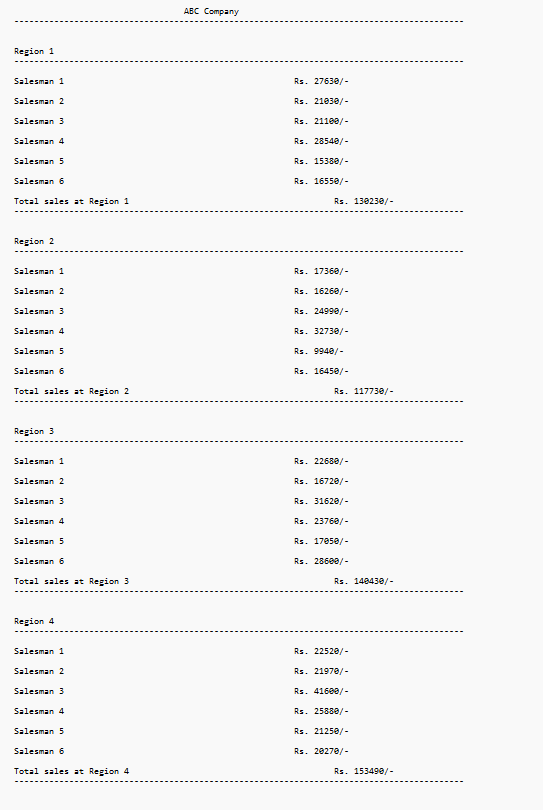
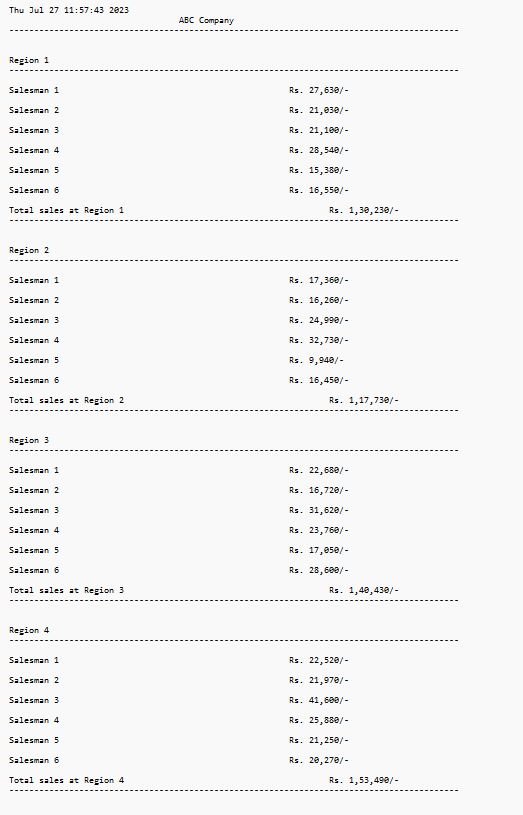
Formatted outfile

diff --git a/Sheet0/Sheet0.cpp b/Sheet0/Sheet0.cpp
@@ -3,6 +3,7 @@
 #include <unordered_map>
 #include <iomanip>
 #include <fstream>
+#include <ctime>
 
 using namespace std;
 
@@ -44,6 +45,7 @@ private:
   ofstream foutput;
   string companyName;
   vector<vector<int>> salesCost;
+  vector<vector<unordered_map<string, int>>> salesContent;
   vector<record> rows;
   unordered_map<string, int> priceMap;
 
@@ -54,6 +56,7 @@ public:
   void fetchPrice();
   void calculateSales();
   void displaySummary(string &);
+  // void fetchRecord(int, int, string);
 };
 
 Database::Database(string company, string &inputFile)
@@ -61,9 +64,11 @@ Database::Database(string company, string &inputFile)
   this->companyName = company;
   // 4 regions, each region has 6 salesmen --> 1 based indexing
   salesCost.resize(5);
+  salesContent.resize(5);
   for (int i = 1; i <= 4; i++)
   {
     salesCost[i].resize(7);
+    salesContent[i].resize(7);
   }
   this->finput.open(inputFile, ios::in);
   this->fetchPrice();
@@ -76,7 +81,9 @@ void Database::readData()
   this->finput >> row; // ignore heading
   while (this->finput >> row)
   {
-    rows.push_back(toRecord(row));
+    record rec = toRecord(row);
+    // this->salesContent[rec.regionNo][rec.salesManNo][rec._id] = this->priceMap[rec._id] * rec.unitsSold;
+    rows.push_back(rec);
   }
 }
 
@@ -132,7 +139,9 @@ void Database::displaySummary(string &outputFile)
 {
   this->foutput.open(outputFile, ios::out);
   this->calculateSales();
-  this->foutput << setw(45) << this->companyName << "\n";
+  time_t now = time(0);
+  char *dt = ctime(&now);
+  this->foutput << dt << setw(45) << this->companyName << "\n";
   for (int i = 0; i < 90; i++)
   {
     this->foutput << "-";
@@ -164,6 +173,11 @@ void Database::displaySummary(string &outputFile)
   }
 }
 
+// void Database::fetchRecord(int regionNo, int salesMan, string _id)
+// {
+//   cout << "The sale done by salesman " << salesMan << " in region " << regionNo << " for product id " << _id << " is :-" << this->salesContent[regionNo][salesMan][_id] << "\n";
+// }
+
 string INPUT_FILE = "./data.csv";
 string OUTPUT_FILE = "./output.txt";
 
@@ -171,6 +185,31 @@ int main()
 {
   Database db("ABC Company", INPUT_FILE);
   db.displaySummary(OUTPUT_FILE);
-
+  // while (true)
+  // {
+  //   char ch;
+  //   cout << "Do you want to fecth record (y/n)"
+  //        << "\n";
+  //   cin >> ch;
+  //   if (ch == 'n')
+  //   {
+  //     break;
+  //   }
+  //   else
+  //   {
+  //     int regNo, salesman;
+  //     string id;
+  //     cout << "Enter the region No."
+  //          << "\n";
+  //     cin >> regNo;
+  //     cout << "Enter the salesman No."
+  //          << "\n";
+  //     cin >> salesman;
+  //     cout << "Enter the product id"
+  //          << "\n";
+  //     cin >> id;
+  //     db.fetchRecord(regNo, salesman, id);
+  //   }
+  // }
   return 0;
 }
